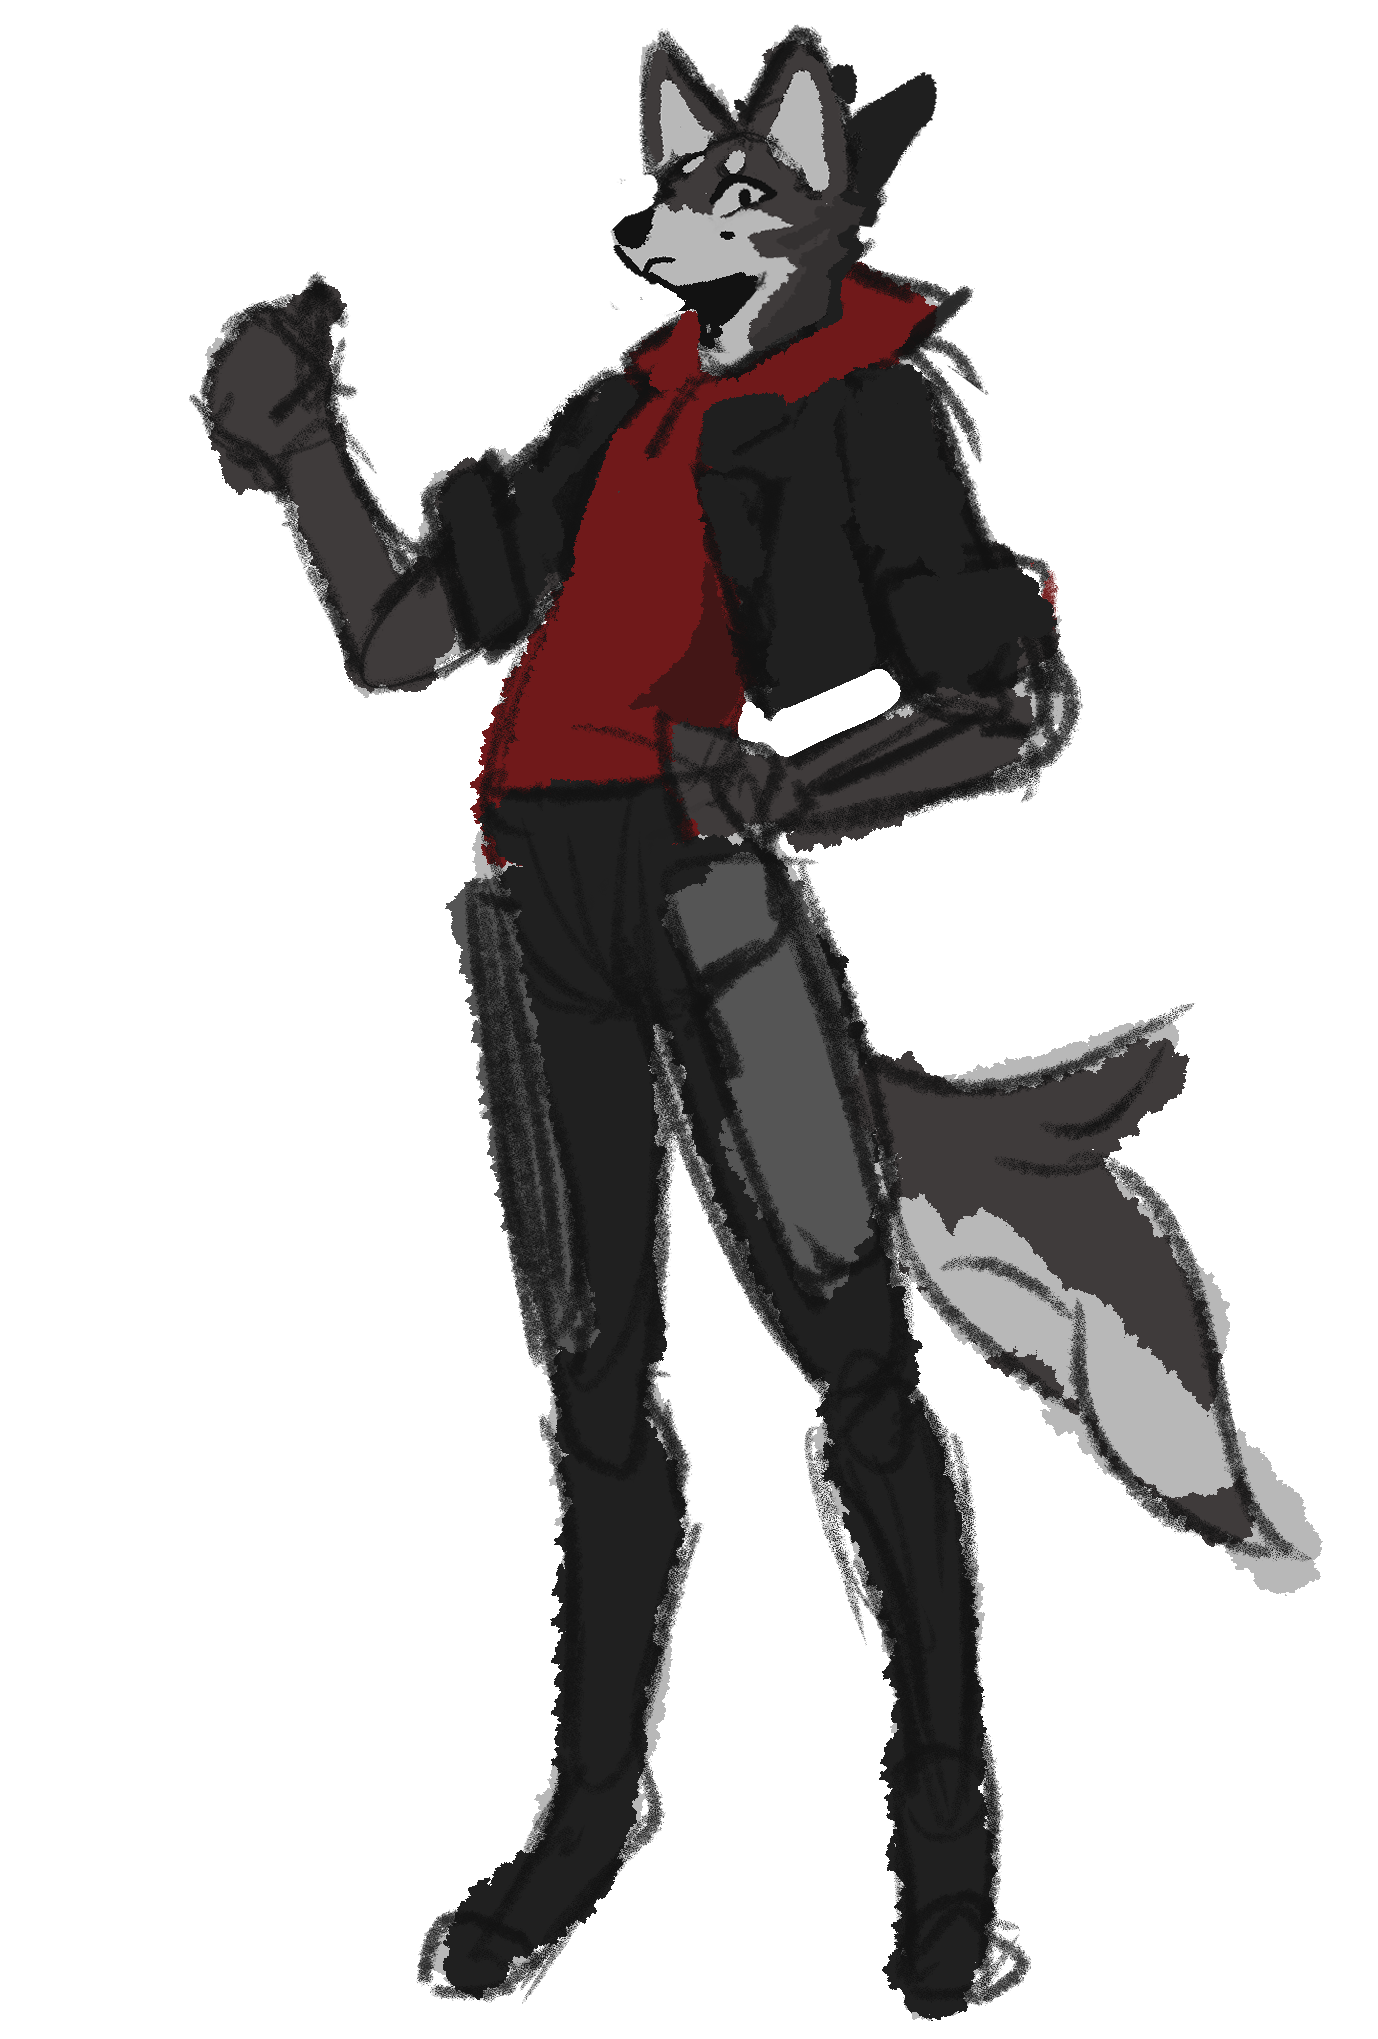
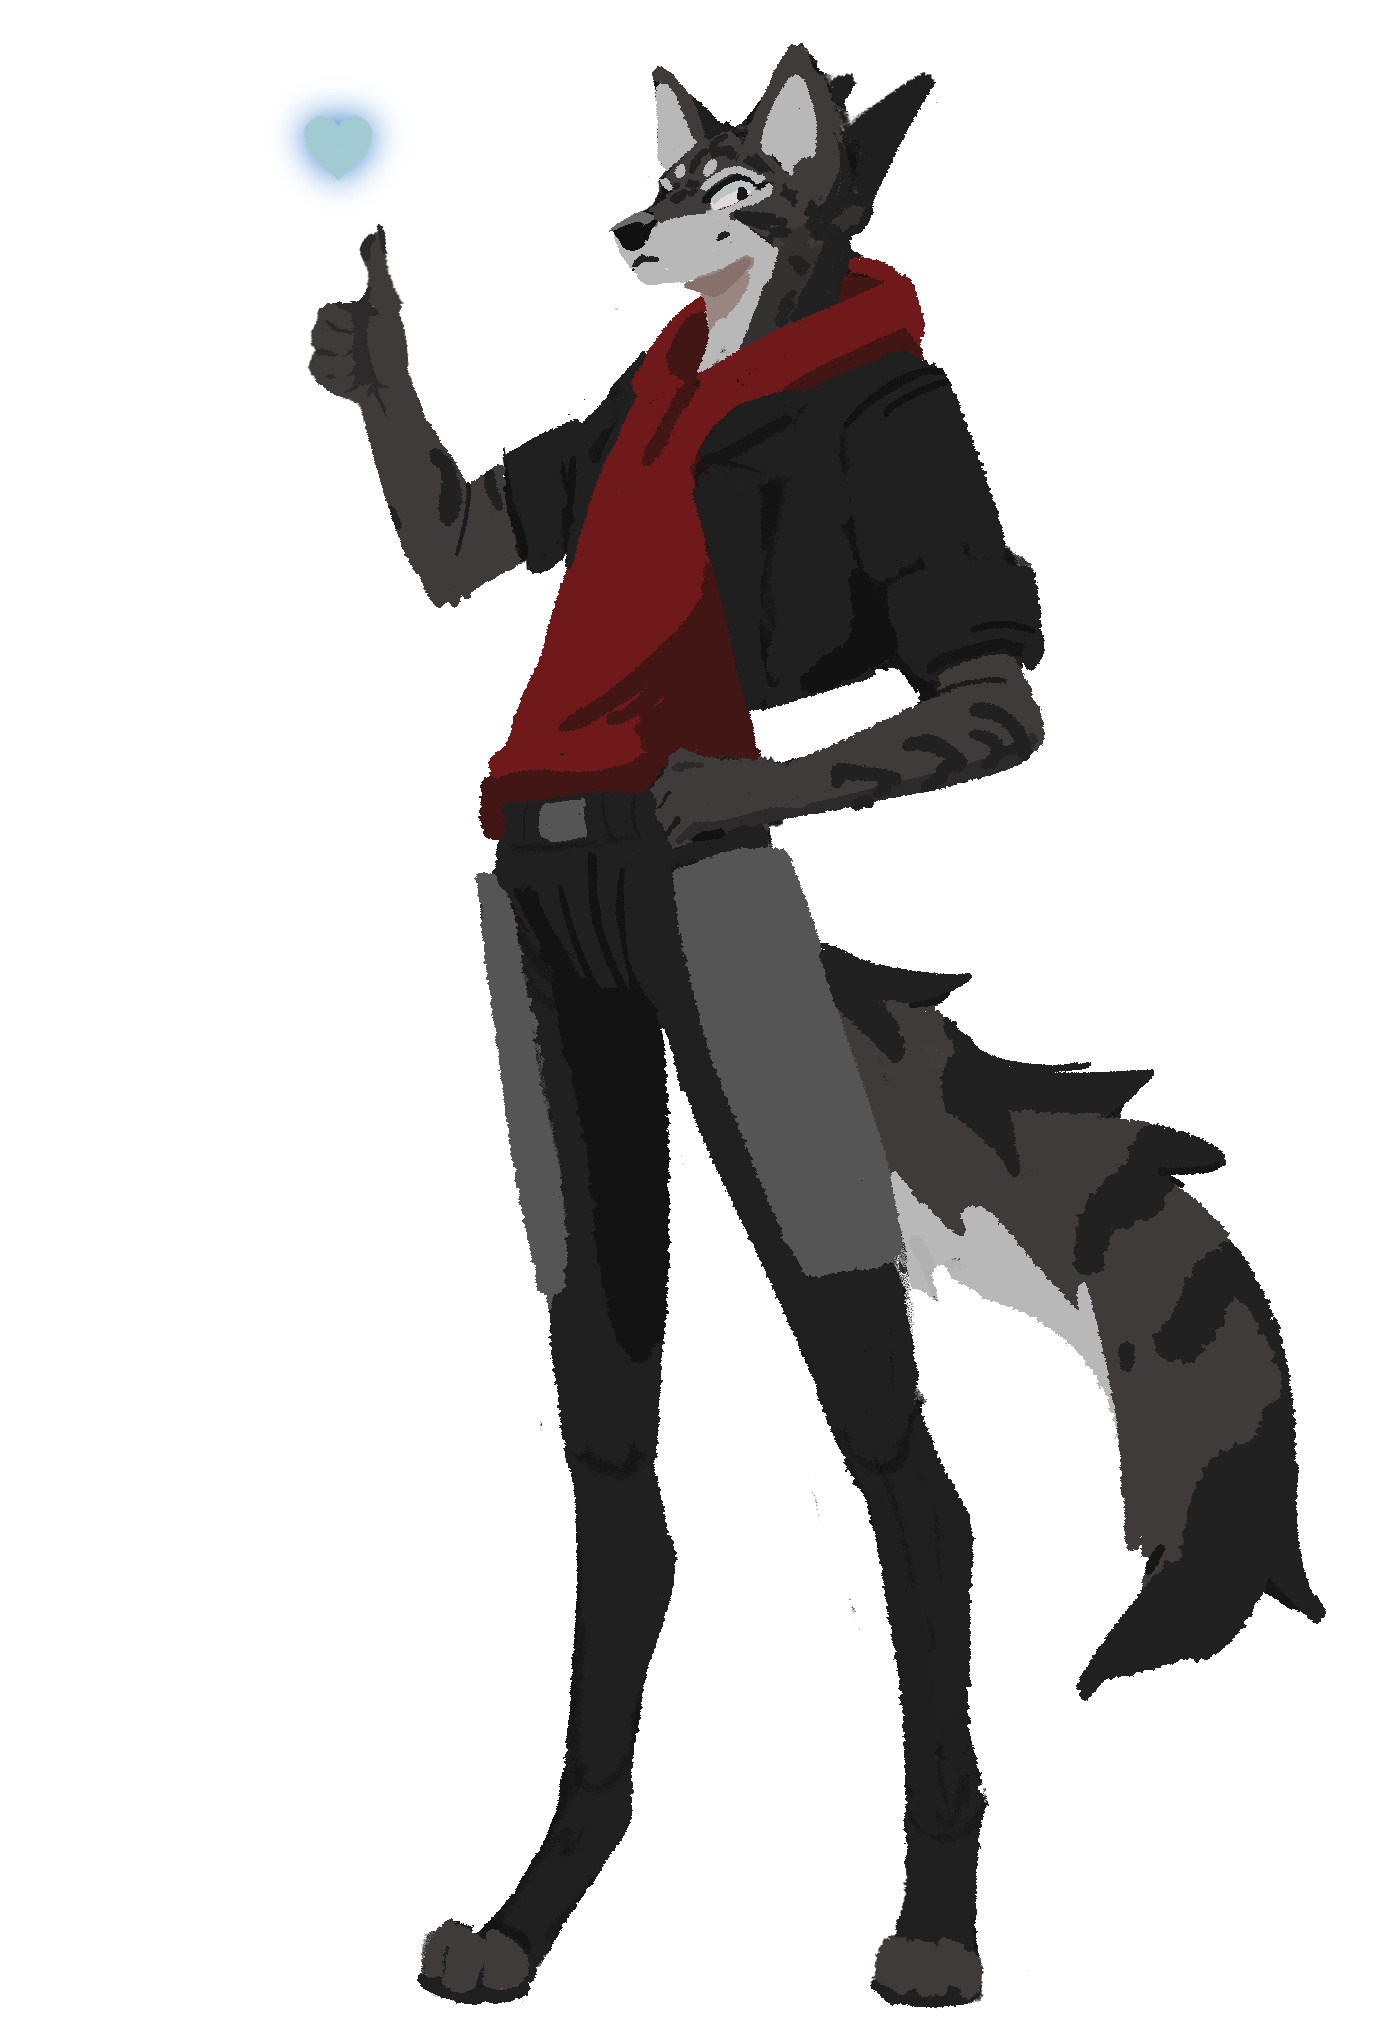
eawdwwdad

diff --git a/index.html b/index.html
@@ -15,11 +15,11 @@
 
     <!-- Przełączniki (język + motyw) -->
   <div class="toggles">
-    <button class="lang-toggle" id="lang-toggle" title="Zmień język / Change language">
+    <button class="lang-toggle" id="lang-toggle" title="Change language">
       <span class="flag-pl">🇵🇱</span>
       <span class="flag-en">🇬🇧</span>
     </button>
-    <button class="theme-toggle" id="theme-toggle" title="Zmień motyw">
+    <button class="theme-toggle" id="theme-toggle" title="Change theme">
       <span class="theme-icon-light">☀</span>
       <span class="theme-icon-dark">🌙</span>
     </button>
@@ -35,8 +35,8 @@
     <h1 class="hero-title">Waro_soulmate</h1>
 
   <p class="hero-quote">
-    <span class="pl">„Część duszy zamykam w mej pracy”</span>
-    <span class="en">"I lock in my work a part of my soul"</span>
+    <span class="pl">„Nie wygenerujesz duszy”</span>
+    <span class="en">"You can't generate a soul"</span>
   </p>
 
   <!-- Nawigacja -->
@@ -67,8 +67,8 @@
       <div class="about-wrap">
         <div class="about-info">
           <p class="about-lead">
-            <span class="pl"> Polski Ilustrator, Inżynier Akademi Górniczo-Hutniczej w Krakowie na kierunku Inżynieria Obliczeniowa, obecnie na stopniu magisterskim "Informatyka i Systemy Inteligentnte". Optymistycznie nastawiony, że któregoś dnia wszyscy poznają moje imię.</span>
-            <span class="en">Polish Illustrator, Engineer at AGH University of Science and Technology in Computer Engineering, currently pursuing a master's degree in "Computer Science and Intelligent Systems". Optimistically looking forward to the day when everyone will know my name.</span>
+            <span class="pl"> Polski Ilustrator, Inżynier kierunku Inżynieria Obliczeniowa, obecnie na stopniu magisterskim z informatyki. Nieco chaotyczny i nieprzewidywalny jednak dopinam wszystkiego na ostatni guzik. Optymistycznie nastawiony, że któregoś dnia wszyscy poznają moje imię.</span>
+            <span class="en">Polish Illustrator, Engineer in Computer Engineering, currently pursuing a master's degree in Computer Science. A bit chaotic and unpredictable, but I always make sure everything is polished down to the last detail. Optimistically looking forward to the day when everyone will know my name.</span>
           </p>
 
           <table class="about-table">

diff --git a/style.css b/style.css
@@ -47,7 +47,7 @@ body{
 
 /* ===== Wspólna ramka przełączników ===== */
 .toggles{
-  position:fixed;
+  position:absolute;
   top:16px;
   right:16px;
   z-index:200;
@@ -781,11 +781,6 @@ footer{
   border-bottom:none;
 }
 
-/* Obraz po prawej */
-.about-image{
-  position:sticky;
-  top:100px;
-}
 .about-image img{
   max-width:280px;
   width:100%;
@@ -907,7 +902,7 @@ footer{
   border-left:3px solid var(--deep-crimson);
   background:rgba(153,30,33,.08);
   border-radius:6px;
-  font-style:italic;
+  font-weight:bold;
   opacity:.85;
   margin-top:14px;
 }

diff --git a/script.js b/script.js
@@ -18,7 +18,7 @@ langToggle.addEventListener('click', () => {
 
 // ===== Motyw =====
 const themeToggle = document.getElementById('theme-toggle');
-root.setAttribute('data-theme', localStorage.getItem('theme') || 'light');
+root.setAttribute('data-theme', localStorage.getItem('theme') || 'dark');
 
 themeToggle.addEventListener('click', () => {
   const next = root.getAttribute('data-theme') === 'dark' ? 'light' : 'dark';
